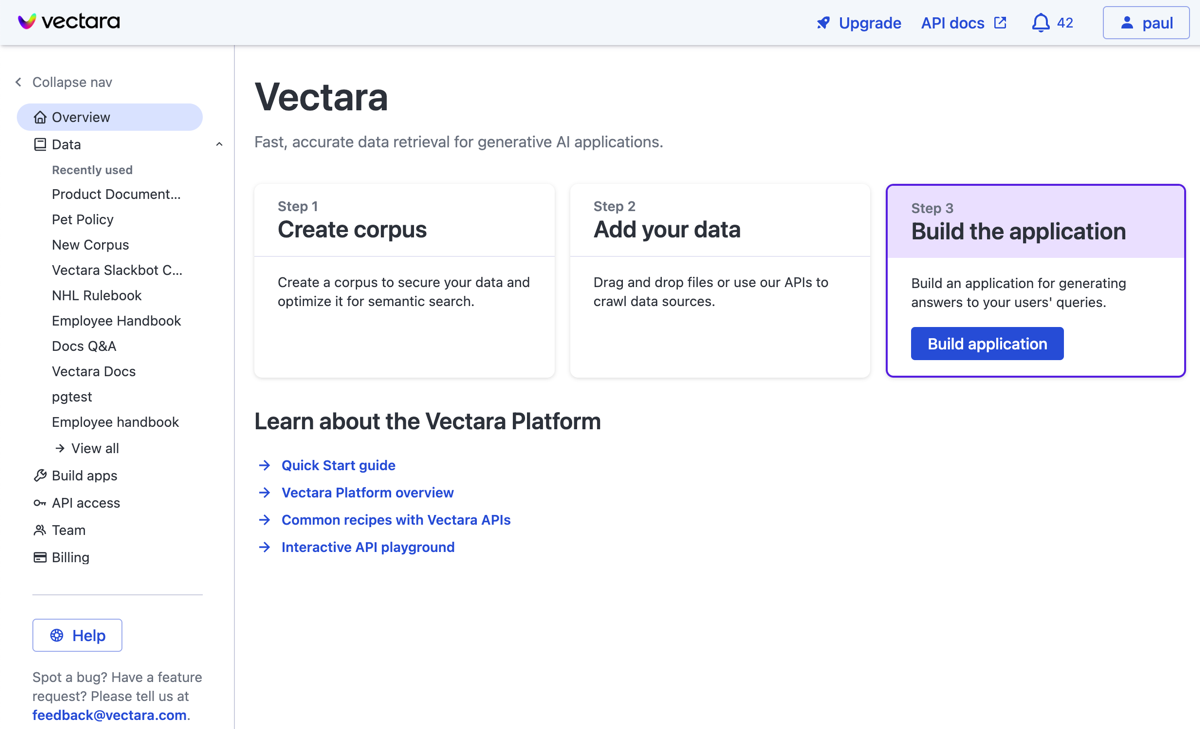
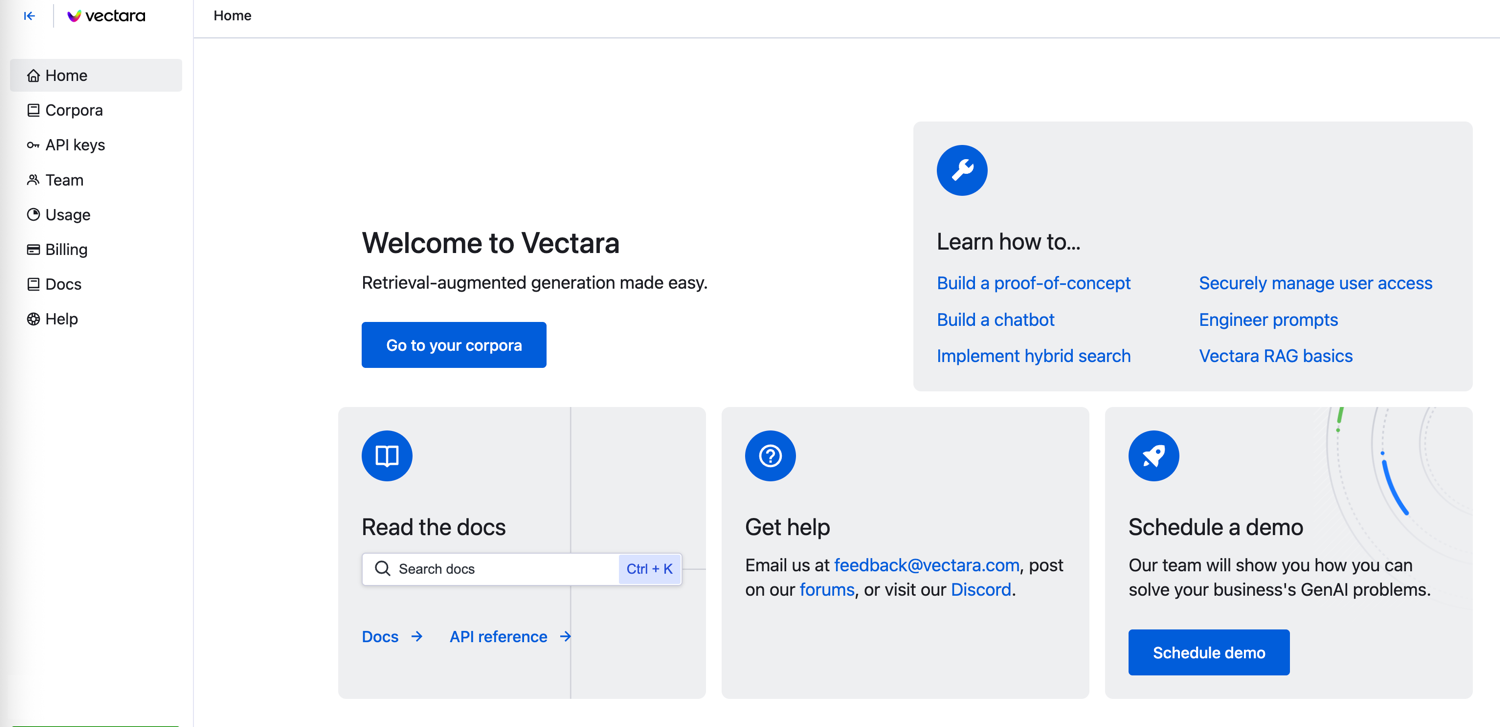
docs(update): Update screenshots for console updates (#452)
* Update screenshots for console updates

* Fix typos

* Updates

* Update www/sidebars.ts

* Update www/docs/console-ui/corpus_server_access.md

* Update screenshot

* Update screens

* Update console_overview.png

---------

diff --git a/www/sidebars.ts b/www/sidebars.ts
@@ -276,20 +276,17 @@ const sidebars: SidebarsConfig = {
             "integrations/vectara-and-langflow",
           ],
         },
-        
-        
       ],
     },
     {
       type: "category",
       label: "Vectara Console",
+      link: {
+        type: 'doc',
+        id: 'console-ui/vectara-console-overview', // This points to the Vectara Console Overview document
+      },
       collapsed: true,
       items: [
-        {
-          type: "doc",
-          id: "console-ui/vectara-console-overview",
-          label: "Vectara Console Overview",
-        },
         {
           type: "category",
           label: "Manage Corpora",

diff --git a/www/docs/console-ui/manage_user.md b/www/docs/console-ui/manage_user.md
@@ -1,38 +1,45 @@
 ---
 id: manage-user
-title: Manage Users
-sidebar_label: Manage Users
+title: Manage Team Members
+sidebar_label: Manage Team Members
 ---
 
 This section lets you add team members and manage the access levels of these 
-users. For example, you can adjust account and corpus level authorizations.
+users. For example, you can adjust account and corpus level authorizations. 
+You can also transfer your Vectara account ownership to another user.
 
-## Create User
+Review the [Authentication and Authorization guide](/docs/learn/authentication/authentication-authorization-vectara) to learn 
+how to set up user permissions, review [enterprise access patterns](/docs/learn/authentication/personas-and-access-patterns), authentication methods and so on. 
+
+## Invite team member
 
 The Account Admin can create users. After login, 
-navigate to the **Teams** tab to create new users
-and manage existing ones. 
+navigate to the **Team** tab to create new users
+and manage existing ones.
 
-1. Click **Create User**
-2. Enter the user's details including the user name, email, and a 
+![Team tab](/img/team-tab.png)
+
+1. Click **Invite team member**
+2. Enter user details including the email, user name, and a 
    description.
-3. Select a role or multiple roles to assign with this user: Account Admin, 
-   Corpus Admin, or Billing Admin. A user without assigned roles at the 
-   account level can still be given corpus-level roles.
+3. Select a role or multiple roles to assign with this user: 
+   * Account Admin
+   * Corpus Admin
+   * Billing Admin.  
+   A user without assigned roles at the 
+   account level can still be given corpus-level roles.  
+    ![Add user](/img/invite_team_member.png)
+4. Click **Send invitation**.  
+  The user appears in the Team list after they accept the invitation.
 
-   ![Add user](/img/new_user.png)
-
-4. Click Create and the new user appears on the Team page.
-
-
-## Edit User
+## Edit team member
 
 The Team page also lets you modify users directly from the user 
-list by clicking the drop-down on the right side of the row. This 
-includes changing role assignments, password resets, enabling and disabling 
-the user, and transferring ownership of the account to
-a new owner.
+list by clicking the drop-down on the right side of the row. 
 
-![Edit user](/img/edit_user.png)
+You can change change role assignments, reset passwords, enable, disable 
+access, or delete the user. Account owners can transfer ownership of the 
+account to a new owner.
 
+![Edit user](/img/edit_team_member.png)
 

diff --git a/www/docs/console-ui/corpus_server_access.md b/www/docs/console-ui/corpus_server_access.md
@@ -9,28 +9,20 @@ commonly needed when your systems will be indexing data into the corpus or
 running queries against it.
 
 1. Make sure that you have an [app client] for your server already created.
-
 2. Navigate to your desired corpus by either clicking its name in the left
    sidebar or through the **Corpora** page.
-
-3. Click the **Authorization** tab.
-   
-:::note
-   
-   If you don't see an Authorization tab, you lack sufficient privileges. Ask your Account 
-   or Corpus Admin to grant you privileges on this corpus.
-
-:::
-
-  ![Corpus Authorization](/img/corpus_authorization_tab.png)
-
-1. Click **Create user role**.
-2. Select a user in the Name dropdown, select the
-   desired role(s) and add an optional description.  Usually, the appropriate
-   roles will be indexing (IDX), or querying (QRY), or both.
-
-  ![Authorize User](/img/authorization_create_user_role.gif)
-
-6. Click **Create**. This will create a new role for your user. 
+3. Click the gear icon in the top-right corner to open the **Settings** page.
+4. Click the **Access control** tab.
+   :::note
+   If you do not see an **Access control tab**, you lack sufficient privileges. 
+   Ask your Account or Corpus Admin to grant you privileges on this corpus.
+   :::
+    ![Corpus Authorization](/img/access_control_tab.png)
+5. Click **Grant user access**.
+6. Select a user, permissions (Query, Index, Query and index, or Admin), and 
+   add an optional description. If you do not see the user, [invite them](https://console.vectara.com/console/team) to 
+   your team.
+   ![Grant User Access](/img/grant_user_access.png)
+7. Click **Grant access**. 
 
 Congratulations. You have successfully authorized a server to access the corpus.

diff --git a/www/docs/learn/authentication/role-based-access-control.md b/www/docs/learn/authentication/role-based-access-control.md
@@ -85,12 +85,13 @@ indexing, or administration, ensuring secure data interactions.
 ### Assign corpus-level roles
 
 1. Navigate to Corpora in the Vectara Console and select a corpus.
-2. Open the **Access control** tab.
-3. Click **Grant user access**.
-4. Select a user.
-5. Select **Query**, **Index, Query** and **index**, or **Admin**.
-6. Add a description for the user.
-7. Click **Grant access**.
+2. Click the **gear icon** in the top-right corner to open the Settings page.
+3. Click the **Access control** tab.
+4. Click **Grant user access**.
+5. Select a user.
+6. Select **Query**, **Index, Query** and **index**, or **Admin**.
+7. Add a description for the user.
+8. Click **Grant access**.
 
 **Use Case:** A developer assigns Query permissions to a client app for read-only 
 access to a customer support corpus.
@@ -102,10 +103,10 @@ cross-corpus access unless explicitly granted.
 
 ## Best practices
 
-✅ Use the **principle of least privilege**: assign only needed roles.
-✅ Review role assignments when rotating keys or changing team structure
-✅ Separate roles for production versus development corpora
-❌ Do not give Admin roles to Client Apps unless essential
+* ✅ Use the **principle of least privilege**: assign only needed roles.
+* ✅ Review role assignments when rotating keys or changing team structure
+* ✅ Separate roles for production versus development corpora
+* ❌ Do not give Admin roles to Client Apps unless essential
 
 ## Common issues and solutions
 

diff --git a/www/docs/console-ui/vectara-console-overview.md b/www/docs/console-ui/vectara-console-overview.md
@@ -25,19 +25,22 @@ add team members, build API requests, and manage your Vectara account:
 - :globe_with_meridians: **Vectara Platform Overview:** Learn about the Vectara Platform and view interactive
   parts of our documentation like the [API Reference](/docs/rest-api/vectara-rest-api-v-2).
 
-## Vectara Console Home Page
+## Vectara Console home page
 
 The Vectara Console Overview home page also provides helpful links to get you started
 with our plaltform:
 
 ![Vectara Console Overview](/img/console_overview.png)
 
-## View the Customer ID
+## View the customer ID
 
-Click your name in the upper-right corner to view your Customer ID, email,
-account size, and more. You need the Customer ID for many API requests. You
-can also copy the Customer ID value for those API requests and paste them
-into the [API Reference](/docs/rest-api/) to experiment with our endpoints
-live in your browser.
+Click your name in the lower-left corner to view your Customer ID, email, 
+and manage your account.
 
 ![Customer ID](/img/customer_id.png)
+
+## View account details
+
+Select **Manage account** to view additional details about your account, 
+including your permissions and the account size (storage, number of documents, 
+and document parts). You can also delete your account.

diff --git a/www/docs/console-ui/reset_or_delete_corpus.md b/www/docs/console-ui/reset_or_delete_corpus.md
@@ -4,7 +4,7 @@ title: Delete Corpus, Disable Corpus, and Clear Corpus Data
 ---
 
 If you decide to stop using a corpus, you have three options on the corpus 
-**Settings** tab.
+**Settings** page.
 
 1. **Disable**: Disables query or indexing requests. A disabled corpus can be
    reenabled at any time from this same page.
@@ -14,12 +14,13 @@ If you decide to stop using a corpus, you have three options on the corpus
    All your connected services to the corpus will also cease to function.
 
 :::caution
-The **Clear corpus data** and **Delete** operations are irreversable.
+The **Clear corpus data** and **Delete** operations are irreversible.
 :::
 
-1. Navigate to your corpus and select the **Settings** tab.
-2. Go to the **Danagerous actions** section at the bottom of the page.
-3. Select one of the following options:
+1. Navigate to your corpus.
+2. Click the gear icon in the top-right corner open the **Settings** page.
+3. Go to the **Dangerous actions** section at the bottom of the page.
+4. Select one of the following options:
    * Click **Disable corpus**.
    * Click **Clear corpus data**.
    * Click **Delete corpus**.

diff --git a/www/docs/console-ui/vectara_chat_overview.md b/www/docs/console-ui/vectara_chat_overview.md
@@ -21,13 +21,10 @@ Query tab of a corpus.
 
 You enable chat in the Query tab of a specific corpus.
 
-1. Click **Data** and select a corpus from the list.
-2. Select the **Query** tab.
-3. Select **Chat** and a navigation drawer appears.
-   ![Chat Option on the Query Tab](/img/chat_query_tab.png)
-4. Enable the Chat toggle:
-   ![Enable Chat Toggle Option](/img/enable_chat.png)
-5. Now you can [chat with your data](/docs/console-ui/chat-with-your-data)!
+1. Navigate to a corpus from the list.
+2. Select the **Query** tab and go to the Generation section.
+3. Select **Chat** and enable the Chat toggle.
+4. Now you can [chat with your data](/docs/console-ui/chat-with-your-data)!
 
 ## Manage Conversations
 

diff --git a/www/docs/console-ui/chat_with_your_data.md b/www/docs/console-ui/chat_with_your_data.md
@@ -13,7 +13,7 @@ The Query tab of a corpus lets you enable chat with your corpus data.
 1. Open a corpus from the Data page where you enabled chat.
 2. Select the **Query** tab.
 3. Select the **Chat** option if it is not enabled.
-4. Let's ask a question.
-   ![Chat with Your Data](/img/chat_with_data.png)
-   Here is a detailed answer which also provide 4 facts from the updated data:
-   ![View a Chat Answer](/img/view_chat_answer.png)
+4. Click **UX preview** and chat with your data.
+
+![UX preview](/img/ux_preview.png)
+  
